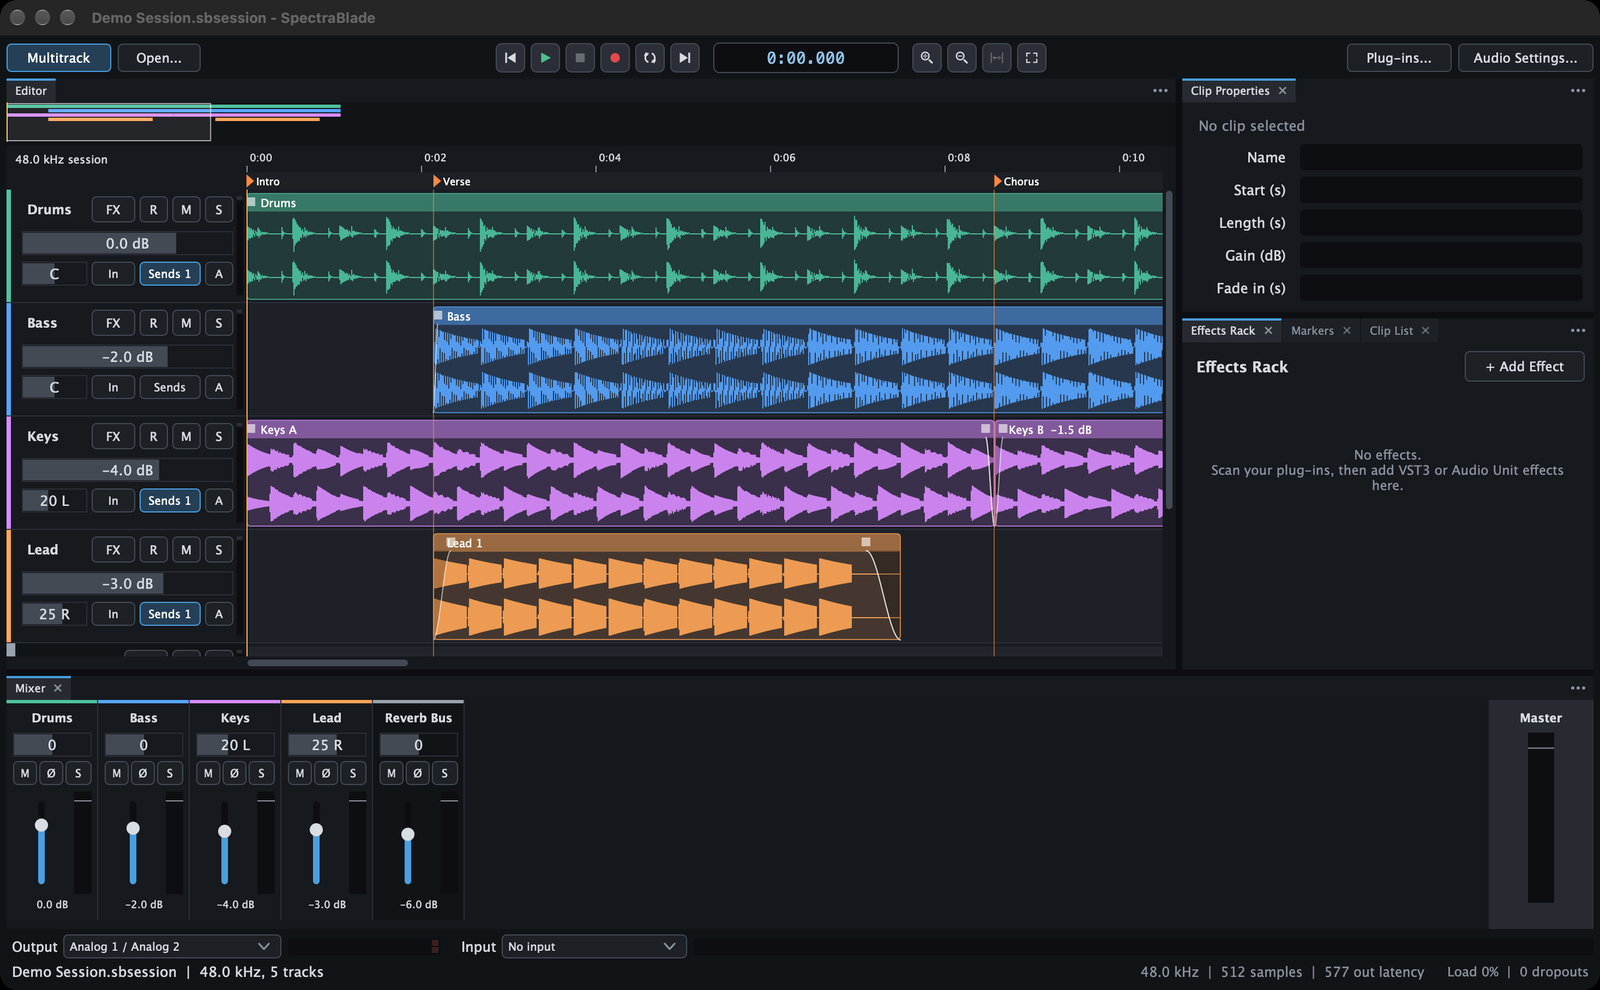
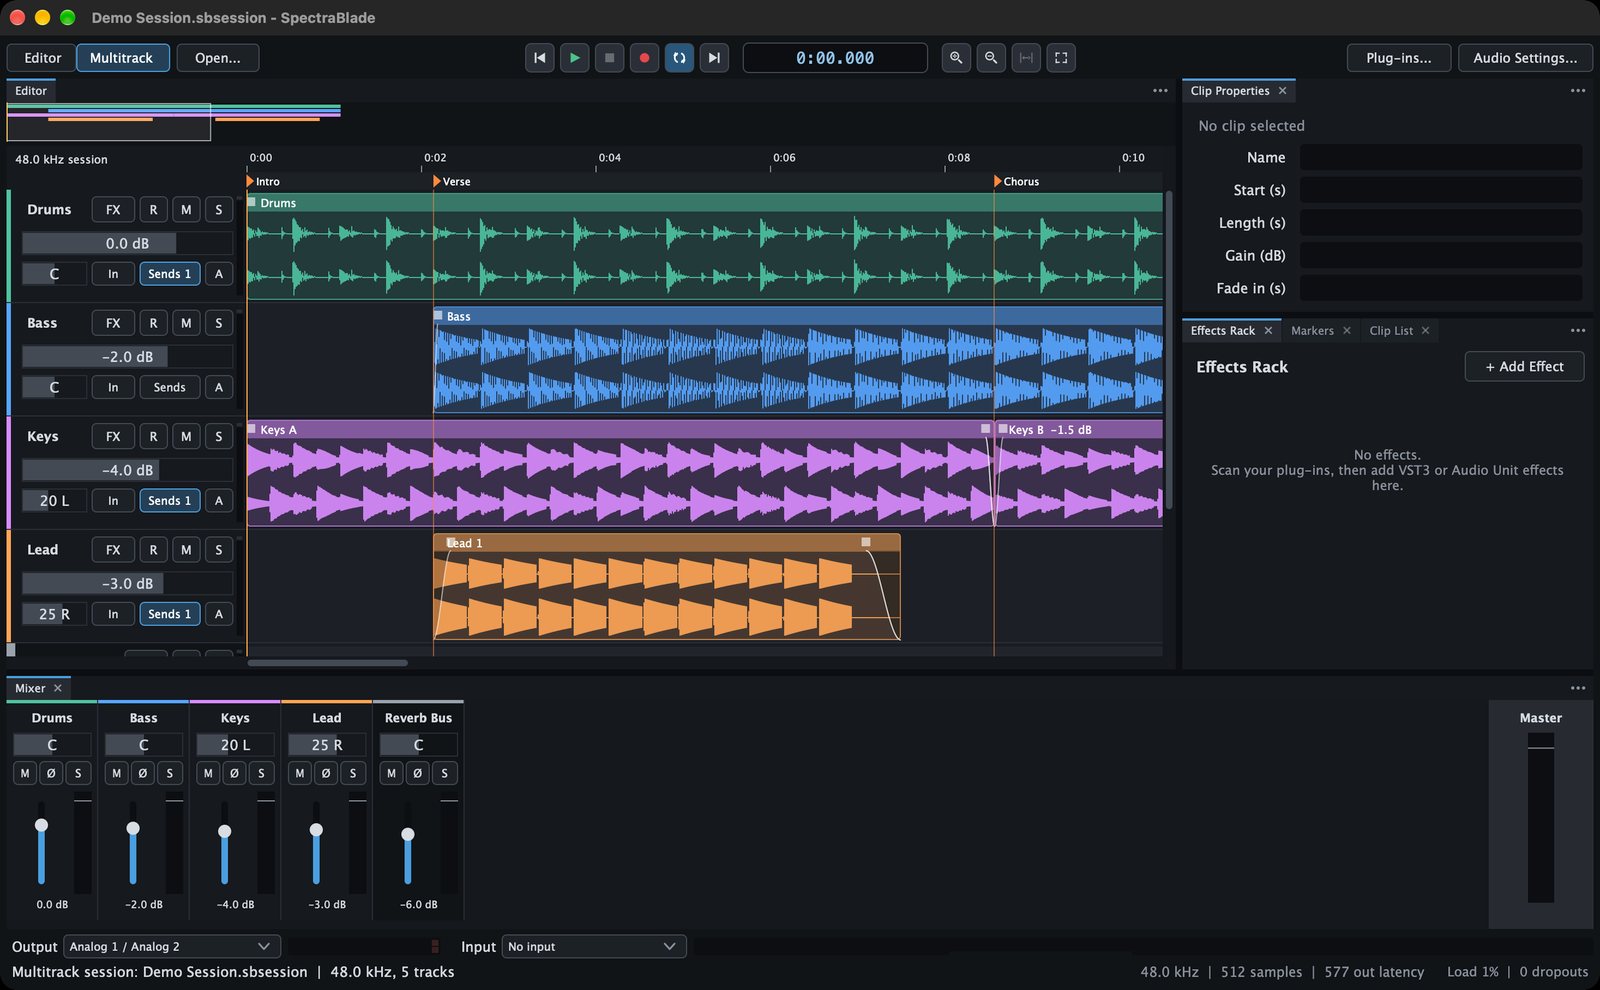
M357: New screenshots, and the About box says what it runs on
The README's five screenshots are retaken from this build: they show the Editor | Multitrack switch, the tool strip and the status line's mode prefix, and the captions name them. The About box says the app is for macOS 13 or later on Apple silicon with no Windows, Linux or Intel build, and credits JUCE, LAME, Signalsmith and the UCS list.

diff --git a/Source/MainComponent.cpp b/Source/MainComponent.cpp
@@ -9792,13 +9792,15 @@ void MainComponent::showAbout()
     showNote ("About SpectraBlade",
               "SpectraBlade " + version + "\n"
               "Copyright (C) 2026 BobClawblaw\n\n"
+              "An audio editor for macOS 13 or later on Apple silicon. There is no Windows, Linux or Intel build.\n\n"
               "This program is free software: you can redistribute it and/or modify it under the terms of the "
               "GNU Affero General Public License, version 3, as published by the Free Software Foundation.\n\n"
               "It is distributed in the hope that it will be useful, but WITHOUT ANY WARRANTY; without even the implied "
               "warranty of MERCHANTABILITY or FITNESS FOR A PARTICULAR PURPOSE. See the licence for more details: "
               "LICENSE.txt in the disk image, or https://www.gnu.org/licenses/agpl-3.0.html\n\n"
-              "Source code: https://github.com/BobClawblaw/spectrablade\n"
-              "Built with JUCE, used under the AGPLv3.");
+              "Source code: https://github.com/BobClawblaw/spectrablade\n\n"
+              "Built with JUCE (under the AGPLv3), the LAME MP3 encoder (LGPL 2 or later), Signalsmith Stretch and Signalsmith Linear "
+              "(MIT licence), and the Universal Category System's list, v8.2.1 (public domain).");
 }
 
 void MainComponent::showGraphicEq (int numBands)

diff --git a/README.md b/README.md
@@ -62,13 +62,13 @@ File > Batch Process... puts many files through the same steps and writes each a
 
 ## Screenshots
 
-![The editor in the Editing workspace: two files open in the Files panel, a stereo file in the waveform and spectrogram view with its fade handles at the top corners and the time strip under it, the effects rack and undo history, the selection panel, and the levels meter](docs/screenshots/editor.png)
+![The editor in the Editing workspace: the Editor | Multitrack switch and the transport at the top, two files open in the Files panel, a stereo file in the waveform and spectrogram view with its fade handles at the top corners and the tool strip under it, the effects rack and undo history, the selection panel, and the levels meter](docs/screenshots/editor.png)
 
-The Editing workspace: two files open in the Files panel on the left (click one to work on it; Window > File Tabs adds tabs over the editor), the effects rack, undo history and selection panel on the right, and the levels meter below. The small handles at the waveform's top corners drag fades in and out; the strip under the waveform shows the cursor, selection and view and holds the zoom controls.
+The Editing workspace: the Editor | Multitrack switch at the top left, lit on the side in use, with the transport beside it; two files open in the Files panel on the left (click one to work on it; Window > File Tabs adds tabs over the editor); the effects rack, undo history and selection panel on the right; and the levels meter below. The small handles at the waveform's top corners drag fades in and out; the strip under the waveform holds the box, lasso, brush and heal tools, shows the cursor, selection and view, and holds the zoom controls. The status line at the bottom says which file is being edited.
 
-![A multitrack session: four tracks and a reverb bus, with clips, fades, sends, markers and the mixer](docs/screenshots/multitrack.png)
+![A multitrack session: the switch on Multitrack, four tracks and a reverb bus, with clips, fades, sends, markers and the mixer](docs/screenshots/multitrack.png)
 
-A multitrack session in the Multitrack workspace: four tracks and a reverb bus with clips, clip fades, a crossfade, sends and markers, the mixer underneath, and clip properties, the rack, markers and the clip list as tabs on the right.
+A multitrack session in the Multitrack workspace, the switch lit on Multitrack and the status line saying so: four tracks and a reverb bus with clips, clip fades, a crossfade, sends and markers, the mixer underneath, and clip properties, the rack, markers and the clip list as tabs on the right.
 
 ![The Analysis workspace in the Darker theme: the frequency analyzer and phase meter under the editor](docs/screenshots/analysis.png)
 

diff --git a/CHANGELOG.md b/CHANGELOG.md
@@ -4,7 +4,10 @@ Each milestone as it was built, newest first, with what the tests measured on th
 
 ## Unreleased
 
-Nothing yet.
+**Milestone 357: New screenshots, and the About box says what it runs on**
+- Dogfooding: the README's screenshots were from 0.9.5 and showed the old lone Multitrack button, not the Editor | Multitrack switch, the tool strip or the status line's mode prefix; and the About box said nothing about where the app runs. All five screenshots are retaken from this build with the demo files (the editor, a multitrack session, the Analysis workspace in the Darker theme, the Light and High Contrast themes), window captures masked at the interface name and scaled to 1,600 wide in sRGB, and their captions name the switch and the tools. The About box now says the app is for macOS 13 or later on Apple silicon, with no Windows, Linux or Intel build, and credits JUCE, LAME, Signalsmith Stretch and Linear and the UCS list as the README does.
+- Measured by the tests: the whole suite passed; the app launched and quit cleanly. The screenshots were looked at one by one.
+- Not tried by hand: the About box on screen.
 
 ## Released
 
